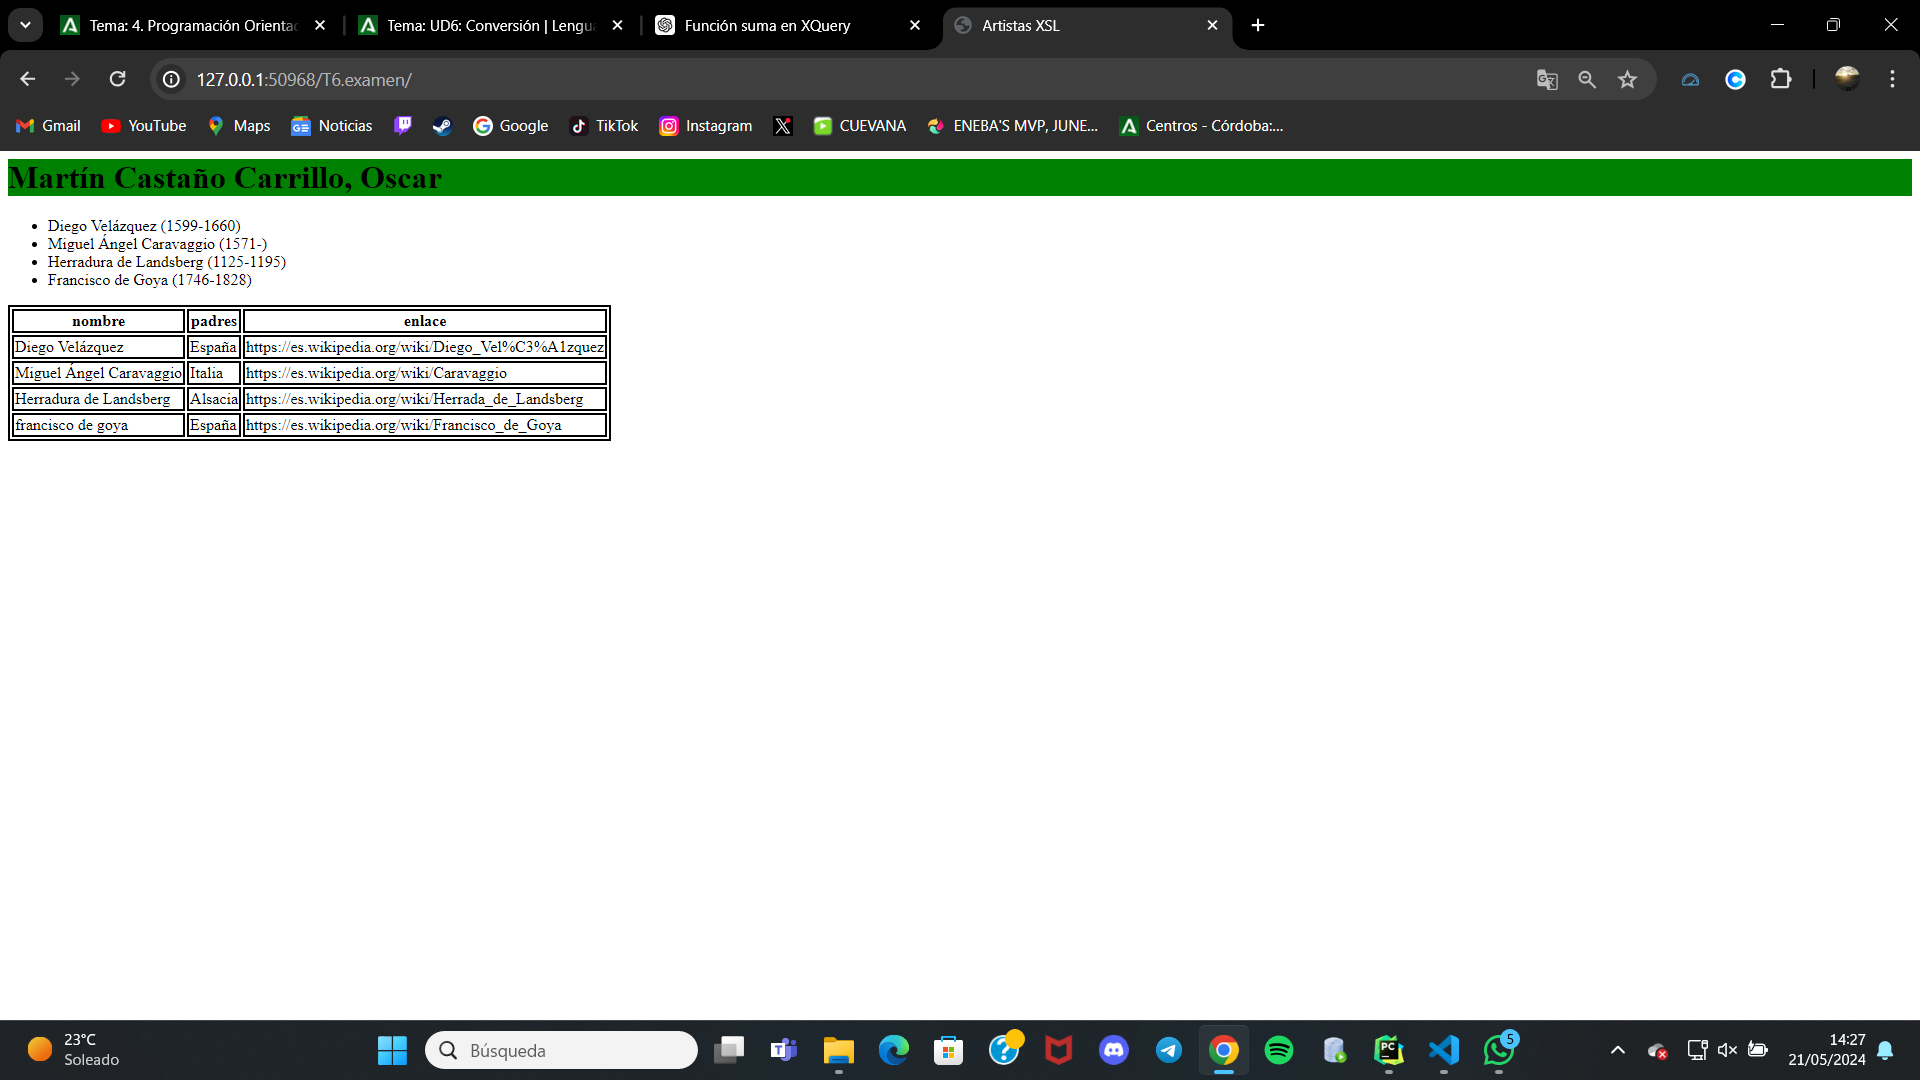
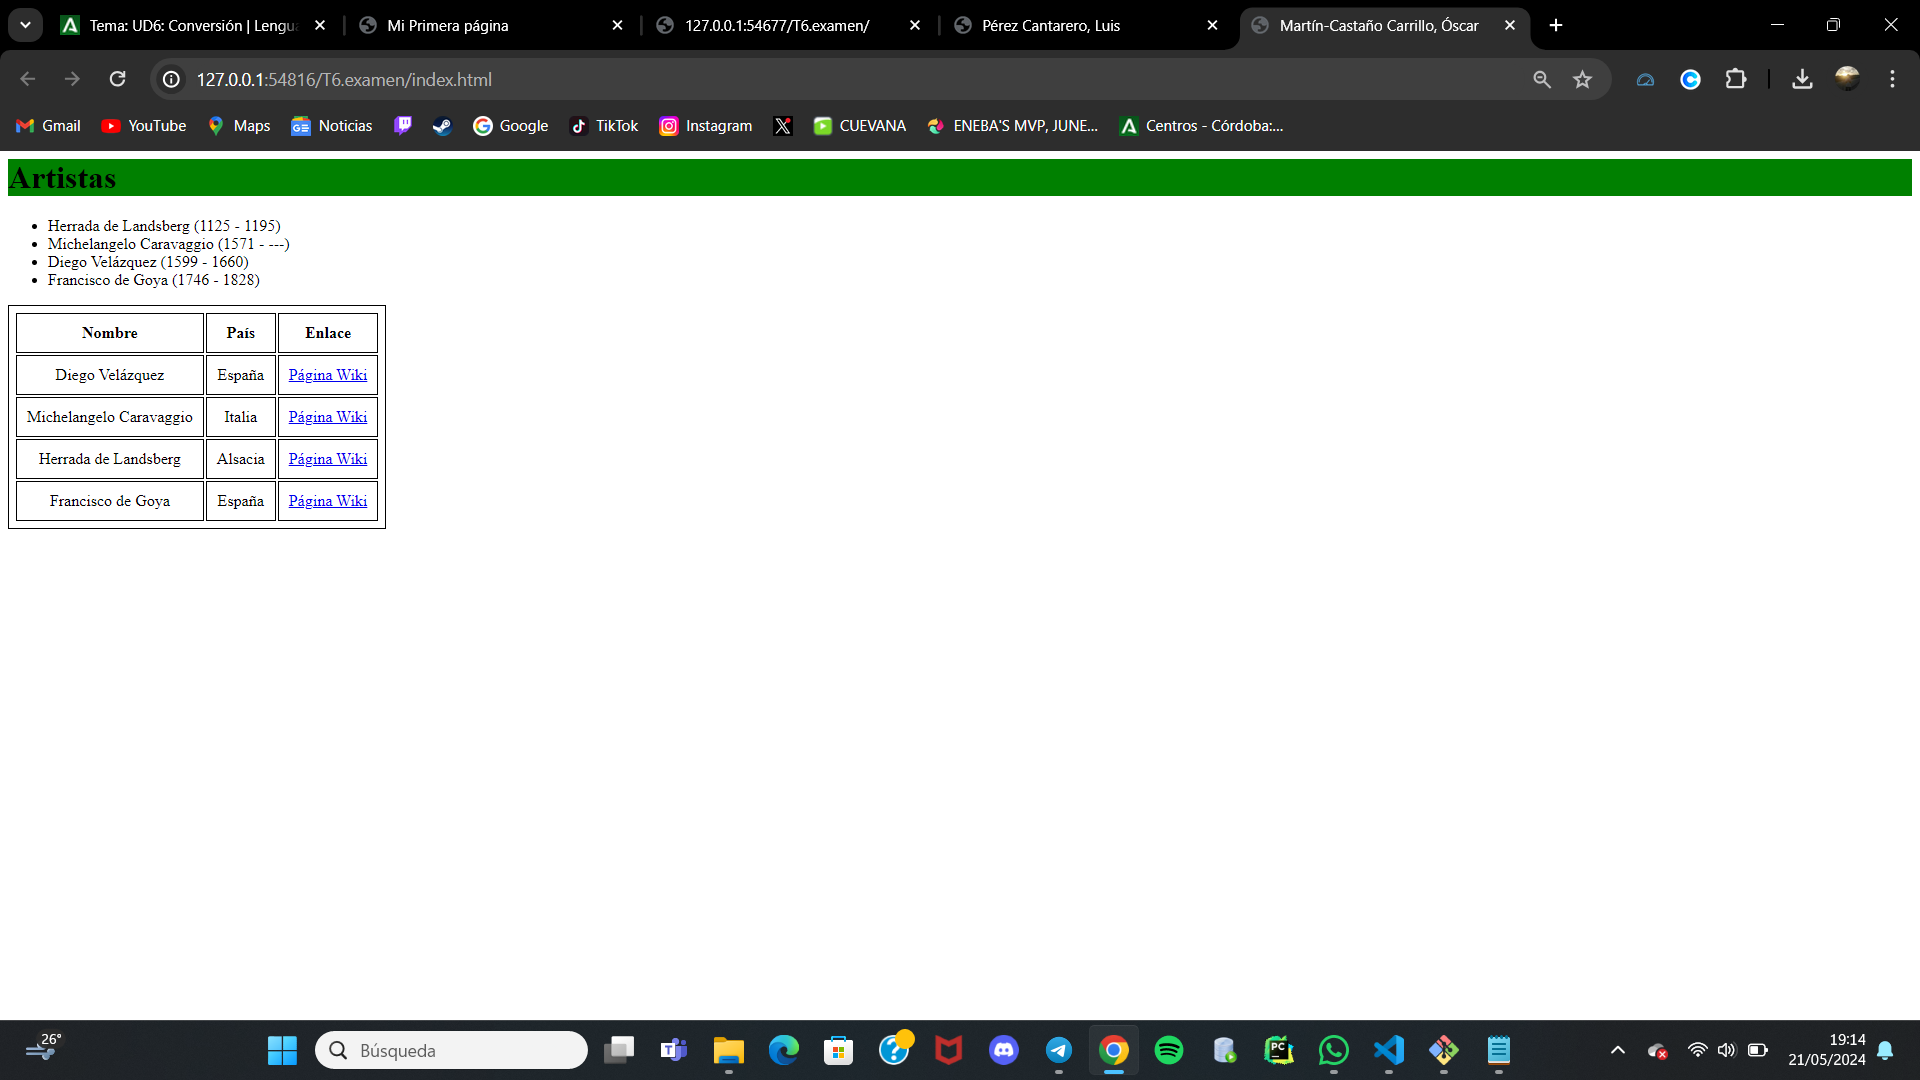
Examen Terminado UD6

diff --git a/T6.examen/index.html b/T6.examen/index.html
@@ -1,90 +1,75 @@
 <html><head>
     <meta http-equiv="Content-Type" content="text/html; charset=UTF-8">
-    <title>XSL Artistas</title>
+    <meta name="author" content="Óscar Martín-Castaño Carrillo">
+    <title>Martín-Castaño Carrillo, Óscar</title>
     <style>
-                        h1 {
-                            background-color: green;
-                        }
-                        table {
-                            border: 2px solid black;
-                        }
-                        th, td{
-                            border: 2px solid black;
-                        }
-                    </style>
-    </head>
-    <body>
-    <h1>Martín-Castaño Carrillo, Óscar</h1>
+        h1 {
+            background-color: green;
+        }
+
+        table {
+            border: solid 1px black;
+            padding: 5px;
+            text-align: center;
+        }
+
+        tr, th, td {
+            border: solid 1px black;
+            padding: 10px;
+        }
+    </style>
+</head>
+<body>
+    <h1>Artistas</h1>
     <ul>
-    <li>Diego Velázquez(1599-1660) </li>
-    <li>Michelangelo Caravaggio(1571-) </li>
-    <li>Herrada de Landsberg(1125-1195) </li>
-    <li>Francisco de Goya(1746-1828) </li>
+        <li>Herrada de Landsberg (1125 - 1195)</li>
+        <li>Michelangelo Caravaggio (1571 - ---)</li>
+        <li>Diego Velázquez (1599 - 1660)</li>
+        <li>Francisco de Goya (1746 - 1828)</li>
     </ul>
-    <table border="1">
-    <tbody><tr>
-    <th>Nombre</th>
-    <th>Pais</th>
-    <th>Enlace</th>
-    </tr>
-    <tr>
-    <td>Diego Velázquez</td>
-    <td>España</td>
-    <td>https://es.wikipedia.org/wiki/Diego_Vel%C3%A1zquez</td>
-    </tr>
-    <tr>
-    <td>Michelangelo Caravaggio</td>
-    <td>Italia</td>
-    <td>https://es.wikipedia.org/wiki/Caravaggio</td>
-    </tr>
-    <tr>
-    <td>Herrada de Landsberg</td>
-    <td>Alsacia</td>
-    <td>https://es.wikipedia.org/wiki/Herrada_de_Landsberg</td>
-    </tr>
-    <tr>
-    <td>Francisco de Goya</td>
-    <td>España</td>
-    <td>https://es.wikipedia.org/wiki/Francisco_de_Goya</td>
-    </tr>
-    </tbody></table>
-    
-    <!-- Code injected by live-server -->
-<script>
-	// <![CDATA[  <-- For SVG support
-	if ('WebSocket' in window) {
-		(function () {
-			function refreshCSS() {
-				var sheets = [].slice.call(document.getElementsByTagName("link"));
-				var head = document.getElementsByTagName("head")[0];
-				for (var i = 0; i < sheets.length; ++i) {
-					var elem = sheets[i];
-					var parent = elem.parentElement || head;
-					parent.removeChild(elem);
-					var rel = elem.rel;
-					if (elem.href && typeof rel != "string" || rel.length == 0 || rel.toLowerCase() == "stylesheet") {
-						var url = elem.href.replace(/(&|\?)_cacheOverride=\d+/, '');
-						elem.href = url + (url.indexOf('?') >= 0 ? '&' : '?') + '_cacheOverride=' + (new Date().valueOf());
-					}
-					parent.appendChild(elem);
-				}
-			}
-			var protocol = window.location.protocol === 'http:' ? 'ws://' : 'wss://';
-			var address = protocol + window.location.host + window.location.pathname + '/ws';
-			var socket = new WebSocket(address);
-			socket.onmessage = function (msg) {
-				if (msg.data == 'reload') window.location.reload();
-				else if (msg.data == 'refreshcss') refreshCSS();
-			};
-			if (sessionStorage && !sessionStorage.getItem('IsThisFirstTime_Log_From_LiveServer')) {
-				console.log('Live reload enabled.');
-				sessionStorage.setItem('IsThisFirstTime_Log_From_LiveServer', true);
-			}
-		})();
-	}
-	else {
-		console.error('Upgrade your browser. This Browser is NOT supported WebSocket for Live-Reloading.');
-	}
-	// ]]>
-</script>
+    <table>
+        <tbody>
+            <tr>
+                <th>Nombre</th>
+                <th>País</th>
+                <th>Enlace</th>
+            </tr>
+            <tr>
+                <td>Diego Velázquez</td>
+                <td>España</td>
+                <td>
+                    <a href="https://es.wikipedia.org/wiki/Diego_Vel%C3%A1zquez">
+                    Página Wiki
+                    </a>
+                </td>
+            </tr>
+            <tr>
+                <td>Michelangelo Caravaggio</td>
+                <td>Italia</td>
+                <td>
+                    <a href="https://es.wikipedia.org/wiki/Caravaggio">
+                    Página Wiki
+                    </a>
+                </td>
+            </tr>
+            <tr>
+                <td>Herrada de Landsberg</td>
+                <td>Alsacia</td>
+                <td>
+                    <a href="https://es.wikipedia.org/wiki/Herrada_de_Landsberg">
+                    Página Wiki
+                    </a>
+                </td>
+            </tr>
+            <tr>
+                <td>Francisco de Goya</td>
+                <td>España</td>
+                <td>
+                    <a href="https://es.wikipedia.org/wiki/Francisco_de_Goya">
+                    Página Wiki
+                    </a>
+                </td>
+            </tr>
+        </tbody>
+    </table>
 </body></html>
